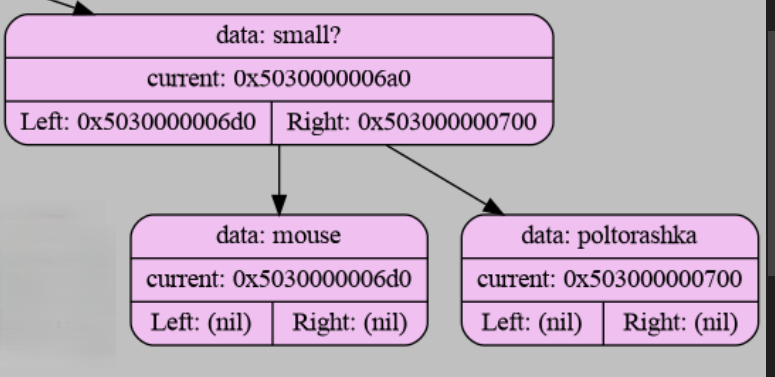
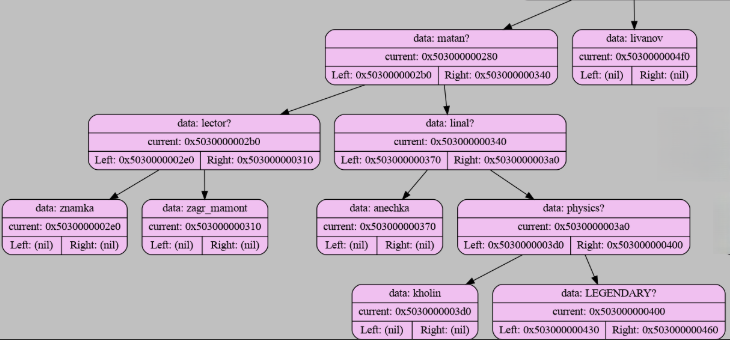
readme update

diff --git a/README.md b/README.md
@@ -1,6 +1,22 @@
 ![C](https://img.shields.io/badge/C-blue)
 ![Linux](https://img.shields.io/badge/🐧%20Linux-yellow)
+![License](https://img.shields.io/badge/License-MIT-green)
 # AKINATOR :computer:
+
+---
+
+## 📚 Table of Contents
+- [📝 Project Description](#-project-description)
+- [✨ Features](#-features)
+- [🎮 How to Play](#-how-to-play)
+- [🌳 Database Structure](#-database-structure)
+- [🏗 Building and Running](#-building-and-running)
+- [📦 Planned Features](#-planned-features)
+- [📄 License](#-license)
+- [👤 Author & Contacts](#-author--contacts)
+
+---
+
 ## Project Description :writing_hand:
 Akinator Game is a console implementation of the classic Akinator game in the C language. The program uses a binary tree to guess objects by asking questions with "yes" or "no" answers. If the program cannot guess the object, the user can add a new object and a question that distinguishes it. The project supports saving and loading the database, visualizing the tree using Graphviz, as well as logging for debugging.
 
@@ -17,25 +33,37 @@ The program was written on a WSL, but it is easily portable to Windows.
 ## How to play? :video_game:
 when you start the program, a menu will appear in the console:
 ![example](image_for_readme/menu.png)
-- If you choose 1, the guessing game will start, but if Akinator couldn't guess what you guessed, you can add this element with a distinctive characteristic. If akinator guessed your word, he will output it to the console: I guessed right.
+- If you choose **play**, the guessing game will start, but if Akinator couldn't guess what you guessed, you can add this element with a distinctive characteristic. If akinator guessed your word, he will output it to the console: I guessed right.
+
 example of a game:
+
 ![example game](image_for_readme/play.png)
-- If you choose 2, a visualization of the tree will appear on the screen.
-- If you choose 3, you must enter the object from the database, and its characteristics will be displayed in the console.
+
+- If you choose **show database**, a visualization of the tree will appear on the screen.
+- If you choose **definition**, you must enter the object from the database, and its characteristics will be displayed in the console.
+
 example of a definition:
+
 ![example definition](image_for_readme/definiton.png)
-- If you choose 4, you must enter two objects from the database, and the common and unique characteristics of the objects will be displayed in the console.
+
+- If you choose **compare elements**, you must enter two objects from the database, and the common and unique characteristics of the objects will be displayed in the console.
 example of comparing elements:
 ![example comparing_nodes](image_for_readme/comparing_nodes.png)
-- If you choose 5, The program will end with the new objects saved, if you have added them.
-- If you choose 6, The program will end without saving new objects.
+- If you choose **Exit with saving**, The program will end with the new objects saved, if you have added them.
+- If you choose **Exit without saving**, The program will end without saving new objects.
 
-## DATABASE :dizzy:
+## Database Structure 	:deciduous_tree:
 - database example:
 ```
-small?
-    mouse
-    poltorashka
+matan?
+    lector?
+        znamka
+        zagr_mamont
+    linal?
+        anechka
+        physics?
+            kholin
+            LEGENDARY?
 ```
 - Should questions end with a symbol `?`
 - Should the answers (leaves of the tree) not contain `?`
@@ -62,7 +90,7 @@ make run
 
 This project is licensed under the MIT License. See the [LICENSE](LICENSE) file for details.
 
-## AUTHOR :nerd_face:
+## Author :nerd_face:
 The project is my implementation of the "Akinator" in Ilya Dedinsky's course.
 For all questions and suggestions, please contact:
 - TG: https://t.me/atlaxsyys
